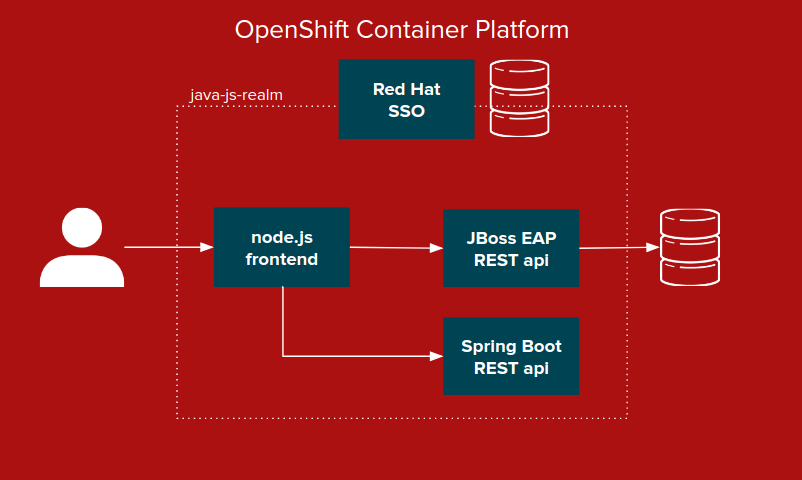
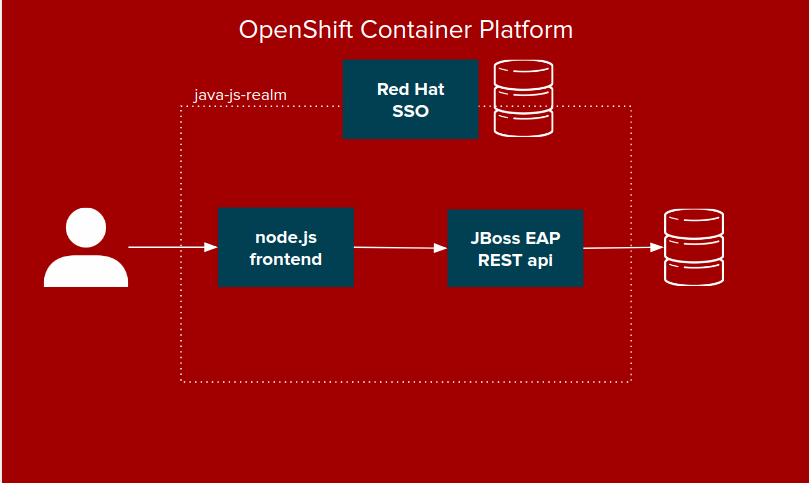
update readme for mysql screenshots

diff --git a/node/src/app/table/table.component.html b/node/src/app/table/table.component.html
@@ -24,7 +24,10 @@
               <tbody>
                 <tr *ngFor="let car of cars">
                   <td class="app-pointer">
-                    <button class="btn btn-warning btn-sm" (click)="warning(car)"><fa-icon [icon]="deleteIcon"></fa-icon></button>&nbsp;{{ car.id }}
+                    <button class="btn btn-warning btn-sm" (click)="warning(car)"><fa-icon [icon]="deleteIcon"></fa-icon></button>
+                    &nbsp;
+                    &nbsp;
+                    {{ car.id }}
                   </td>
                   <td class="app-pointer" (click)="edit(car)">{{ car.year }}</td>
                   <td class="app-pointer" (click)="edit(car)">{{ car.make }}</td>

diff --git a/README.md b/README.md
@@ -3,14 +3,13 @@
 This project contains scripts and source to deploy a 3 tier application along with [Red Hat Single Sign-On](https://access.redhat.com/products/red-hat-single-sign-on) and secures the application with SSL.
 
 The application has a [node.js](https://nodejs.org/en/) run [Angular](https://angular.io/) frontend (tier 1) that calls a 
-[Spring Boot](http://spring.io/projects/spring-boot) REST backend (tier 2) and a 
 [JBoss EAP](https://access.redhat.com/products/red-hat-jboss-enterprise-application-platform/) REST backend (tier 2) that persists data
-to a [Postgresql](https://www.postgresql.org/) database (tier 3).
+to a [MySQL](https://www.mysql.com/) database (tier 3).
 The Red Hat Single Sign-On deployment secures this deployed via a configured realm called **java-js-realm**.  The realm contains
 configured clients for the public facing frontend (js) and the bearer only backend (eap). The security is simple and only checks that a **valid user is logged in**
 
 All of the scripts to help deploy require that you are logged in via the [oc](https://docs.openshift.com/container-platform/3.10/cli_reference/get_started_cli.html) command line tool to 
-a [Openshift](https://www.openshift.com/) cluster or [minishift](https://www.okd.io/minishift/) instance
+a [Openshift](https://www.openshift.com/) cluster or [container development kit](https://developers.redhat.com/products/cdk/download/) instance
 
 Example: `oc login -u developer`
 
@@ -38,13 +37,9 @@ by the Springboot backend, JBoss EAP backend and nodejs frontend to communicate 
 
 ![screenshot](./screenshots/config.png)
 
-## Deploy JBoss EAP and Postgresql
+## Deploy JBoss EAP and MySQL
 
 In the `eap` folder run the `ocp-deploy-eap.sh` script.
-
-## Deploy Spring Boot
-
-In the `springboot` folder run the `ocp-deploy-springboot.sh` script.
 
 ## Deploy node.js
 
@@ -86,7 +81,7 @@ Now that everything is configured, go to the **node-js** application route and y
 
 You will be able to see your user attributes under the **Profile** tab.
 
-Using the **Status** and **Cars** tabs will make REST calls to the JBoss EAP REST backend.  The **Status** tab also has an option to call the **springboot** backend.
+Using the **Status** and **Cars** tabs will make REST calls to the JBoss EAP REST backend. 
 
 ![screenshot](./screenshots/test.png)
 
